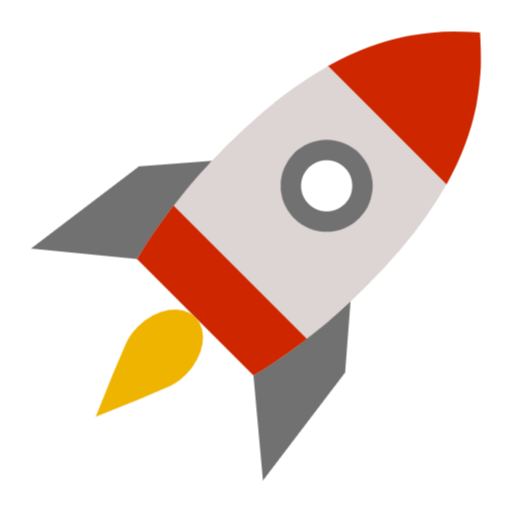
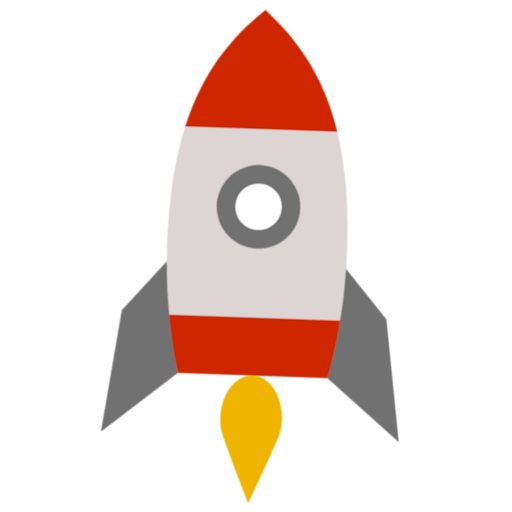
Add the rocket and scroll bar stuff

diff --git a/space-journal/src/app/page.tsx b/space-journal/src/app/page.tsx
@@ -21,6 +21,7 @@ import Rocket from "@/../public/rocket.png"
 import ColorChanger from "./color-changer";
 export default function Home() {
   const [nextSection, setNextSection] = useState('hobby');
+  const [isShaking, setIsShaking] = useState(false);
   const handleScroll = () => {
     // Obtain the current scroll position
     const scrollPosition = window.pageYOffset;
@@ -29,7 +30,13 @@ export default function Home() {
     const sections = Array.from(document.querySelectorAll('.section'))
       .filter(section => section.offsetTop >= (scrollPosition + 100))
       .sort((a, b) => a.offsetTop - b.offsetTop);
-    if(sections.length > 0) setNextSection(sections[0].id)
+    if (sections.length > 0) {
+      if (sections[0].id !== nextSection) {
+        setIsShaking(true);
+        setTimeout(() => setIsShaking(false), 1000);
+      }
+      setNextSection(sections[0].id)
+    }
   };
 
   // Add and remove the scroll event listener when the component mounts/unmounts
@@ -45,17 +52,22 @@ export default function Home() {
     <main className="flex-col w-5xl w-full items-center justify-between font-mono text-sm lg:flex">
       {nextSection !== "last" ? <ScrollDownButton targetId={nextSection} /> : <div></div>}
       <div className="fixed bottom-0 right-0 shake">
-  <div>
-    <Image src={Rocket} width={100} height={100} alt="Description" />
-  </div>
-</div>
+        <div
+          style={{
+            animation: isShaking ? 'shake 0.5s ease-in-out infinite' : 'none',
+            display: 'inline-block'
+          }}
+        >
+          <Image src={Rocket} width={100} height={100} alt="Description" />
+        </div>
+      </div>
       <WelcomePage />
       <HobbyPage />
       <JournalPage />
       <Dashboard />
-      <Insights/>
+      <Insights />
       <ColorChanger />
-      <Nav/>
+      <Nav />
       <div className="bg-animation">
         <div id="stars"></div>
         <div id="stars2"></div>

diff --git a/space-journal/src/app/globals.css b/space-journal/src/app/globals.css
@@ -219,23 +219,28 @@
     z-index: 999;
 }
 
-@-webkit-keyframes shake {
-    0% { -webkit-transform: translate(2px, 1px) rotate(0deg); } 
-    10% { -webkit-transform: translate(-1px, -2px) rotate(-1deg); }
-    20% { -webkit-transform: translate(-3px, 0px) rotate(1deg); }
-    30% { -webkit-transform: translate(0px, 2px) rotate(0deg); }
-    40% { -webkit-transform: translate(1px, -1px) rotate(1deg); }
-    50% { -webkit-transform: translate(-1px, 2px) rotate(-1deg); }
-    60% { -webkit-transform: translate(-3px, 1px) rotate(0deg); }
-    70% { -webkit-transform: translate(2px, 1px) rotate(-1deg); }
-    80% { -webkit-transform: translate(-1px, -1px) rotate(1deg); }
-    90% { -webkit-transform: translate(2px, 2px) rotate(0deg); }
-    100% { -webkit-transform: translate(1px, -2px) rotate(-1deg); }
+@keyframes shake {
+    0% { transform: translate(2px, 1px) rotate(0deg); } 
+    10% { transform: translate(-1px, -2px) rotate(-1deg); }
+    20% { transform: translate(-3px, 0px) rotate(1deg); }
+    30% { transform: translate(0px, 2px) rotate(0deg); }
+    40% { transform: translate(1px, -1px) rotate(1deg); }
+    50% { transform: translate(-1px, 2px) rotate(-1deg); }
+    60% { transform: translate(-3px, 1px) rotate(0deg); }
+    70% { transform: translate(2px, 1px) rotate(-1deg); }
+    80% { transform: translate(-1px, -1px) rotate(1deg); }
+    90% { transform: translate(2px, 2px) rotate(0deg); }
+    100% { transform: translate(1px, -2px) rotate(-1deg); }
 }
-.shake {
-    display:inline-block;
-    -webkit-animation-name: shake;
-    -webkit-animation-duration: 0.5s;
-    -webkit-transform-origin:50% 50%;
-    -webkit-animation-iteration-count: infinite;
-}
+
+  
+  /* Hide scrollbar for IE, Edge and Firefox */
+ body {
+    -ms-overflow-style: none;  /* IE and Edge */
+    scrollbar-width: none;  /* Firefox */
+  }
+
+  body::-webkit-scrollbar {
+    display: none;
+  }
+  

diff --git a/space-journal/src/Helpers/Helper.tsx b/space-journal/src/Helpers/Helper.tsx
@@ -102,6 +102,7 @@ export function averageSentimentForPastYear() {
               // Ensure the entry has sentiment property
               if (entry && entry.sentiment !== undefined) {
                   totalSentiment += entry.sentiment;
+                  console.log(entry.sentiment)
                   numberOfEntries++;
               }
           }

diff --git a/space-journal/src/components/ui/moodGrid.tsx b/space-journal/src/components/ui/moodGrid.tsx
@@ -8,7 +8,7 @@ const MoodGrid: React.FC = () => {
   const days = 7;
 
   // Generate an example data set with random contributions count for each day
-  const data = [0, NaN, 7, 2, -7];
+  const data = sentimentsArrayForThisYear();
 
   // Function to determine the color based on the contribution count
   const colorForCount = (count: number) => {
